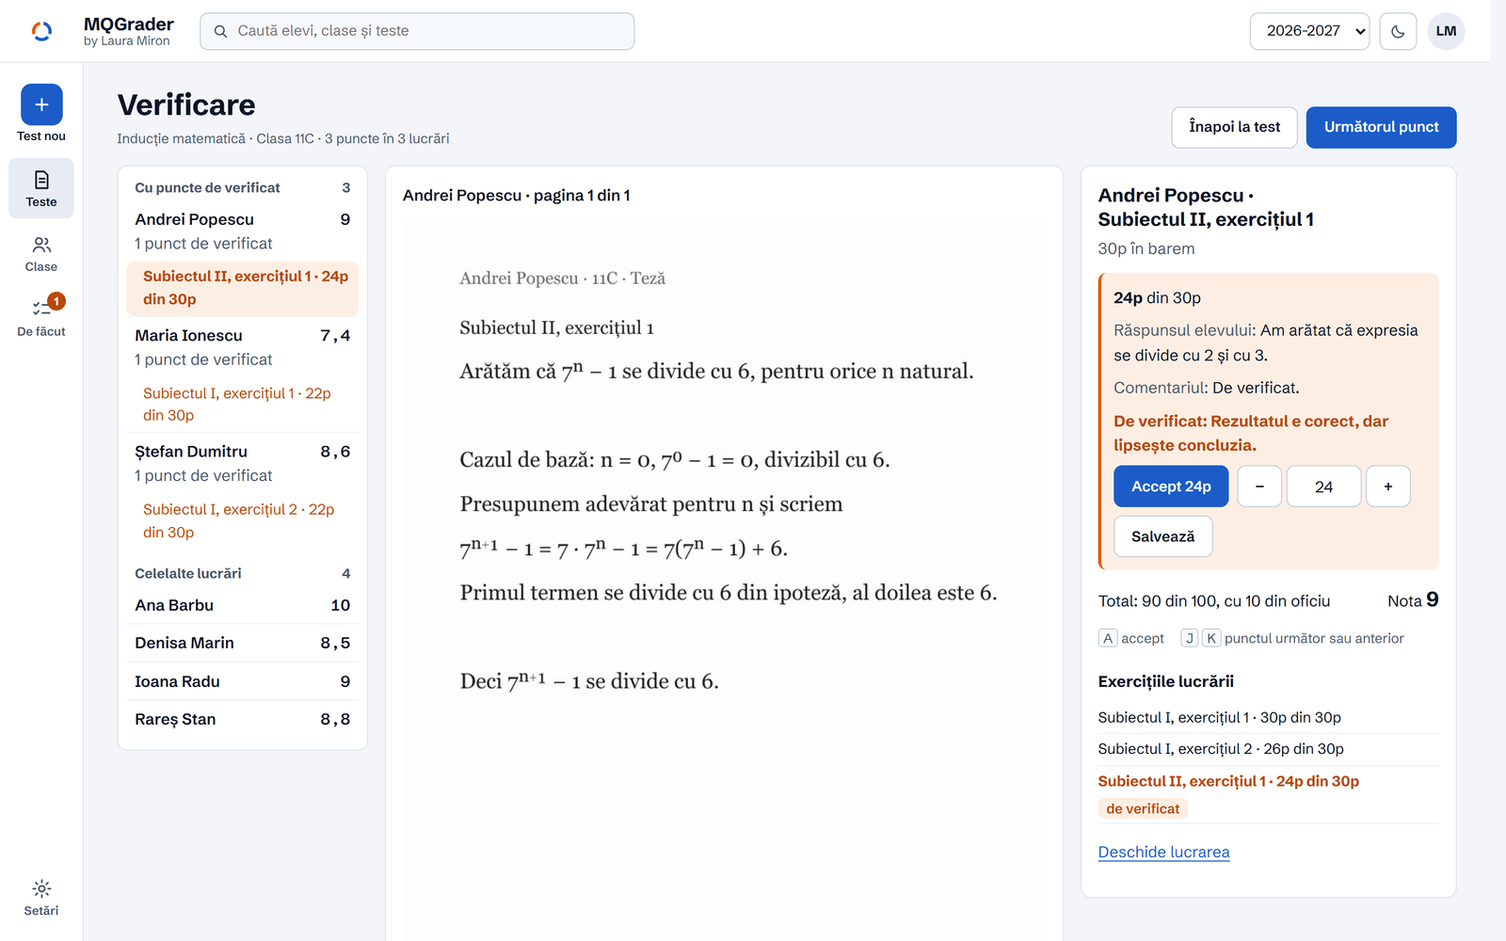
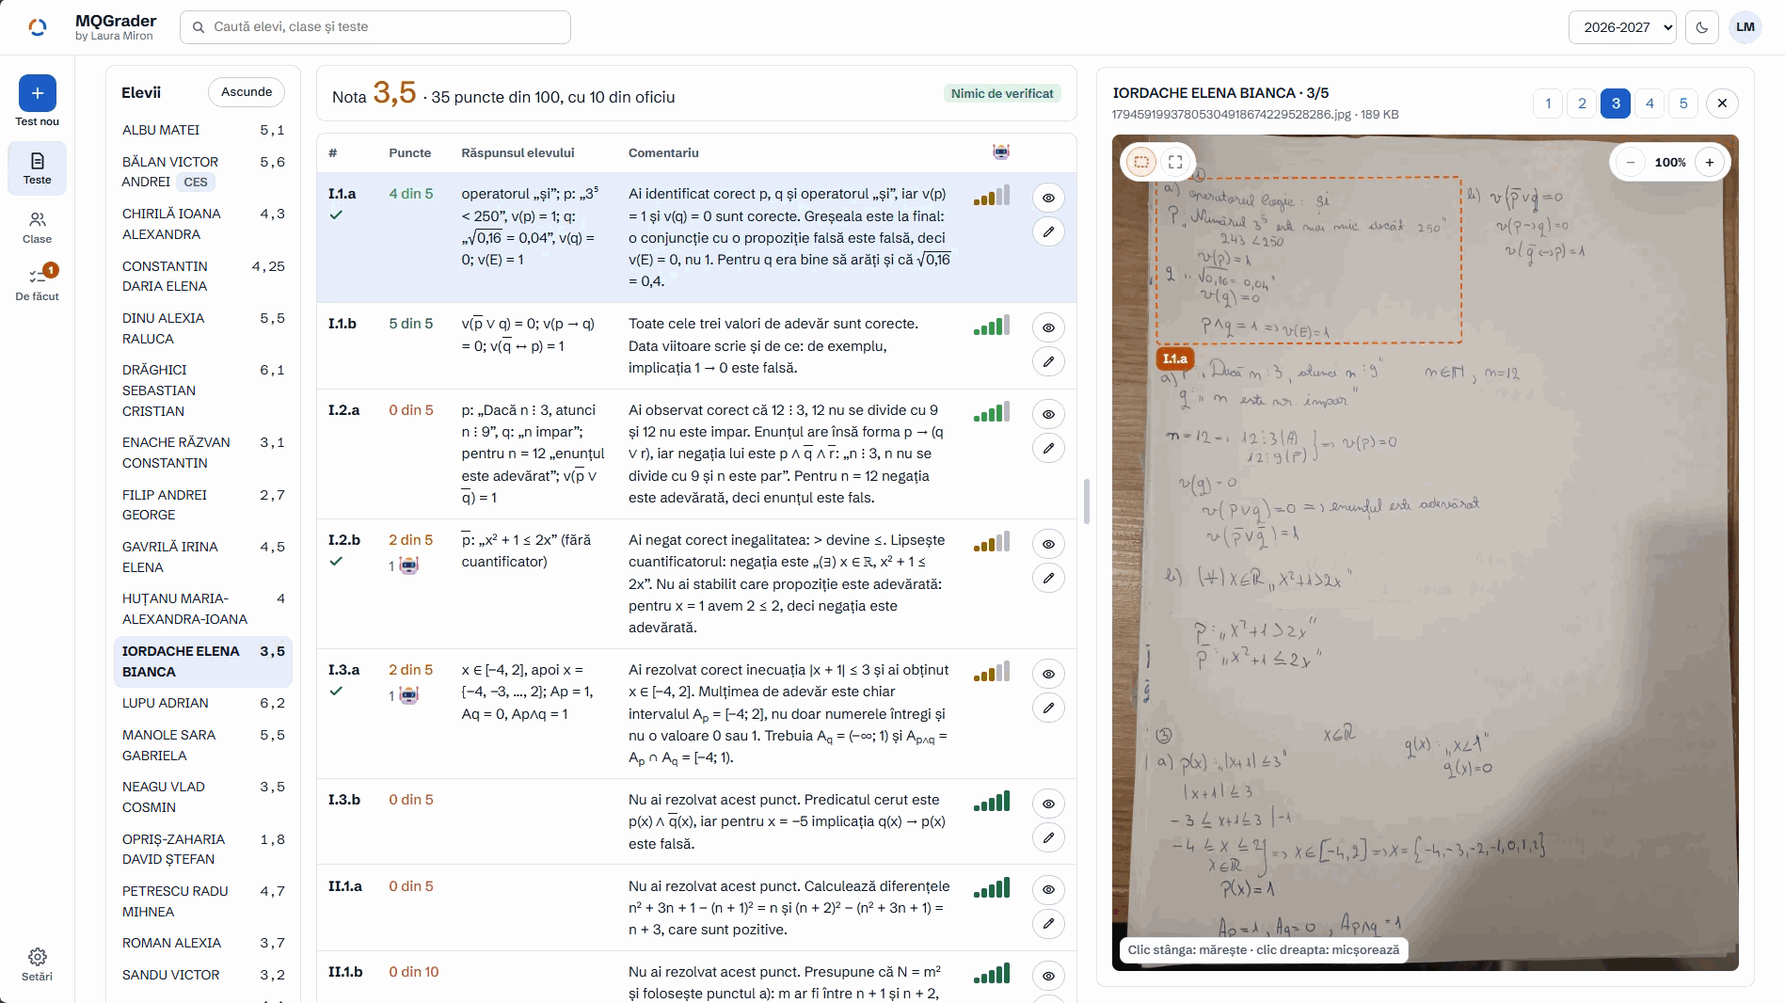
Show a real graded paper on the guide page, with the student names changed
The guide's picture is now a capture of a graded paper: the class list,
the points, answers and comments per exercise, and the page photo. Every
student name in the list and the photo title is a made-up name, and the
name written on the paper is erased.

diff --git a/guide/index.html b/guide/index.html
@@ -45,9 +45,9 @@
             "primaryImageOfPage": {
               "@type": "ImageObject",
               "url": "https://mqgrader.ro/app-verificare.png",
-              "width": 1600,
-              "height": 1000,
-              "caption": "Verificarea într-un test: punctele de verificat ale clasei, lucrarea și punctul care așteaptă decizia profesorului."
+              "width": 1897,
+              "height": 1066,
+              "caption": "O lucrare corectată în MQGrader: punctajul, răspunsul elevului și comentariul la fiecare exercițiu, lângă poza paginii."
             }
           },
           {
@@ -164,8 +164,8 @@
             </div>
 
             <figure class="shot">
-              <img src="/app-verificare.png" width="1600" height="1000" alt="Verificarea într-un test de matematică: în stânga, punctele de verificat ale clasei; la mijloc, pagina lucrării; în dreapta, exercițiul cu 24 de puncte din 30, motivul pentru care așteaptă și butoanele de acceptare." loading="lazy" decoding="async" />
-              <figcaption>Captură din aplicație, cu date de test: un punct care așteaptă decizia profesorului, cu punctajul lui din barem și cu motivul pentru care a fost pus deoparte.</figcaption>
+              <img src="/app-verificare.png" width="1897" height="1066" alt="O lucrare corectată într-un test de matematică: în stânga, elevii clasei cu notele lor; la mijloc, nota lucrării și, la fiecare exercițiu, punctajul, răspunsul elevului și comentariul; în dreapta, poza paginii, cu exercițiul I.1.a încadrat." loading="lazy" decoding="async" />
+              <figcaption>Captură din aplicație, cu o lucrare reală și cu numele elevilor schimbate: la fiecare exercițiu, punctajul, răspunsul elevului și comentariul, lângă poza paginii.</figcaption>
             </figure>
 
             <h2 id="habits">Trei obiceiuri care fac corectura mai ușoară</h2>

diff --git a/src/landing/pages.test.ts b/src/landing/pages.test.ts
@@ -333,11 +333,11 @@ describe('the pages that answer a search', () => {
     const figure = doc.querySelector('.prose .shot');
     const img = figure?.querySelector('img');
     expect(img?.getAttribute('src')).toBe('/app-verificare.png');
-    expect(img?.getAttribute('width')).toBe('1600');
-    expect(img?.getAttribute('height')).toBe('1000');
+    expect(img?.getAttribute('width')).toBe('1897');
+    expect(img?.getAttribute('height')).toBe('1066');
     expect((img?.getAttribute('alt') ?? '').length).toBeGreaterThan(60);
-    expect(img?.getAttribute('alt')).toContain('Verificarea într-un test de matematică');
-    expect(text(figure?.querySelector('figcaption') ?? null)).toContain('decizia profesorului');
+    expect(img?.getAttribute('alt')).toContain('O lucrare corectată într-un test de matematică');
+    expect(text(figure?.querySelector('figcaption') ?? null)).toContain('numele elevilor schimbate');
     // The page's main image is the one the reader sees, at its real size.
     const ld = JSON.parse(text(doc.querySelector('script[type="application/ld+json"]')));
     const nodes: { '@type': string; primaryImageOfPage?: { url: string; width: number; height: number; caption?: string } }[] =
@@ -345,8 +345,8 @@ describe('the pages that answer a search', () => {
     const page = nodes.find((n) => n['@type'] === 'WebPage')!;
     expect(page.primaryImageOfPage).toMatchObject({
       url: 'https://mqgrader.ro/app-verificare.png',
-      width: 1600,
-      height: 1000,
+      width: 1897,
+      height: 1066,
     });
     expect(page.primaryImageOfPage?.caption?.length).toBeGreaterThan(40);
   });

diff --git a/src/AGENTS.md b/src/AGENTS.md
@@ -17,7 +17,7 @@ The two browser apps. The root `AGENTS.md` holds the project-wide rules.
 - `admin/search/` is search (redesign spec §11.10). `SearchBox.tsx` is the box after the lockup in the top bar ("Caută elevi, clase și teste", an ARIA combobox): from two letters, the list under it shows at most five of each group, "Elevi" (the classes on the right), "Clase" (the students, "arhivată"), "Teste" (the class and the date), with the match in bold (`Highlight.tsx`, `matchRange` of `shared/search.ts`), and "Toate rezultatele pentru „stef”" last. The arrows move (`aria-activedescendant`), Enter opens the chosen line or, with none chosen, the results page; a chosen line empties the box. Esc closes the list first and marks it with `preventDefault()`, so a panel stays open. `useSearch.ts` asks `/api/admin/search` 200 ms after the typing stops, keyed by the year and the folded text, and keeps the last answer on screen meanwhile; the shell reads `['search']` again after every change. `pages/SearchPage.tsx` is the results page at `/search?q=stef&show=students`: "Rezultate pentru „stef”", how many in the school year, the chips "Toate", "Elevi", "Clase", "Teste" with their counts (an empty group's chip is disabled; an old link to it shows all), and one card per group: a student with the classes and "ultima notă" or "nicio notă încă", a class with its students, a test with its class, date and stage (`stagesOf`). On a phone the box gives way to a magnifier beside ☰ (`Layout.tsx`, the panel `search`): `SearchLayer.tsx` is the search over the whole screen, a dialog with ← "Închide căutarea" and the list always open; ←, Esc, a new page and a screen grown past a phone close it, the page, the top bar and the bar under it are `inert`, and the focus goes back to the magnifier. The class page's student search uses the same fold.
 - `EmptyState.tsx` is an empty place of the teacher app (redesign spec §11.9): an icon (`shell/icons.tsx`), a heading at the level of its place (`level`: an h3 under a panel's or a card's title, an h2 in a card with none, an h1 on a page with no other heading), one sentence, and at most one button, its one next step. It is used by "Clasele tale" with no class (its "Clasă nouă", and "Nu ai nicio clasă activă" when archived ones exist; the panel's own foot then shows only "Arhivate (n)"), "Ce ai de făcut" with nothing, `/classes` with no active class, a class with no students or no tests (`NoStudents` in `classPage/GradesTable.tsx`, on both tabs; an archived class gets the same headings and no button), În clasă while the test is open and no student has started an upload (`submissionId` null on every row, with no button: the students' link above it has "Arată codul QR pe tot ecranul"; that QR code on the whole screen, `QrOverlay` of `UploadLink.tsx`, belongs to the panel, so it stays open when the first paper arrives; closing it gives the focus back to its button), and Rezultate with nothing to publish (`NoResultsYet` in `ResultsAccess.tsx`, "Mergi la Corectare"; the students' links stay under it). A new teacher (no test in the year, and `testsEvaluated` 0) sees on the Teste page (after "Se încarcă…" while the tests load, not the other greeting) "Bun venit, …" and `testsPage/FirstSteps.tsx` ("Primii pași": a class, a test, the print) in place of the filters and the lists; the card goes once a test exists.
 - `admin/testPage/PapersProgress.tsx` is the papers bar above the test page's papers table only (the Teste page shows the stage bar instead): "Lucrări: 18 din 23 de elevi au trimis" while the uploads are open, "… au participat" after, one bar of the students in parts (`paperCounts.ts`: corectate, se corectează, așteaptă corectarea, eșuate, încarcă acum, încă nu au trimis, nu au participat hollow with a grey outline: the brand has no gradient), a legend naming each part that has a student, "✓ Corectat complet" when every paper that took part is graded, and apart the points to check with "Verifică". A held-back paper (not chosen, past the demo limit) is `uploading` with files: once the uploads close it waits, it did take part (`heldBack`, also used by the papers table and the paper page's head, "Elevii" and `waitingText`; `heldBackHint` says why, and tells a demo account with no paper left that reopening will not send it). "✓ Corectat complet" waits while a student of a reopened test is sending. A sent CES paper waits too while the CES barem is not active, though the test is in evaluation (`CesBar`). The bar is `aria-hidden`: the legend says it in words. `EvaluationControls` shows "Marchează ca terminat" in place of the start button when a paper is graded and none waits.
-- `landing/`: the landing page (`index.html`) in the look of the redesign, with its own tokens (`landing.css`) and one script (`landing.ts`): the theme button, the header's menu and Quick Try. The four pages that answer a search (`guide/index.html`, `marking-scheme/index.html`, `about/index.html`, `pricing/index.html`) share `landing.css` and `pages.css`, and load `pages.ts` (`themeButton.ts` and `siteMenu.ts`, also used by `landing.ts`), so the Quick Try code stays on the landing page. The five pages' header keeps the same four pages one tap away on a phone: below 900px the links wait in `.nav-links` and the ☰ button (`siteMenu.ts`) opens them under the header, closed by Esc (which gives the focus back), a click elsewhere, a link, or a wider screen; the content pages mark their own link with `aria-current="page"`. `pages.test.ts` checks each one's canonical, its one `h1`, its own share card (`public/og-guide.png` and the three beside it), the trail (`nav.crumbs`) against its `BreadcrumbList`, the byline and `dateModified` against the sitemap's `lastmod`, its header menu and footer links, its closing `#read-also` list, its JSON-LD and the words Laura Miron's own pages repeat. The two long pages (`/guide/`, `/marking-scheme/`) open with a `nav.toc` whose links go to `id`s on their `h2`s, and `/guide/` shows the review screen (`public/app-verificare.png`, 1600×1000) in a `.prose .shot` figure, the picture its `primaryImageOfPage` names. The landing page links the four pages from its own text: one link in the account section and the `#more` cards at the end. The five public pages share their footer: each has `<!--#include site-foot -->`, which Vite replaces with the part in `partials.ts` (the `publicPagePartials` plugin in `vite.config.ts`); a test that reads a page's raw HTML runs `expandPartials` on it first. `landing/quickTry/` is the Quick Try button (under "Intră în cont"), its form in a `<dialog>` and the card of the visitor's try, with no React: `ui.ts` works on the page's own elements (the file rows: a hidden real input in each `[data-try-pick]` label, filled by `showPick`; the pages row is a `div` whose label holds the input, beside the real button "Cu telefonul" (shown from 768px) and its "Schimbă"), `send.ts` checks and sends the form and names the try (`tryTitle`; with her barem the grading starts at once; with the robot's she starts it on the try's page; with the phone (`byPhone`) it sends no page and does not start), `phone.ts` is the QR window that the dialog shows after a send with the phone (the form block hides; the code of the phone page, the pages as they arrive, "Alege fișiere de pe calculator", "Pornește corectarea" only with her barem, else "Deschide încercarea"; Esc, "Închide" and the start close it and the card follows the try), `qr.ts` draws its code as SVG elements (`uqr`, loaded only then; when it fails the address shows as text), `watch.ts` reads the pages while it shows (every 3 s, not in a hidden tab, stopping after 15 minutes with no new page), `status.ts` says where the try stands (the card's line, tag and tone) and whether the button shows (one try per device per Bucharest day in `localStorage`, `storage.ts`, unless it failed; an administrator always), and `turnstile.ts` loads Cloudflare's check. The page's security policy allows no inline script or style, and only Turnstile's script and frame from elsewhere; `landing.test.ts` checks that, and Laura Miron's texts word for word. "Cere un cont de profesor" opens `/teacher/#new-account`, which `LoginPage` shows as "Cont nou de profesor". The login page repeats the heading, the line and the six stages: a change to them in `index.html` goes into `admin/wayIn/WayIn.tsx` too.
+- `landing/`: the landing page (`index.html`) in the look of the redesign, with its own tokens (`landing.css`) and one script (`landing.ts`): the theme button, the header's menu and Quick Try. The four pages that answer a search (`guide/index.html`, `marking-scheme/index.html`, `about/index.html`, `pricing/index.html`) share `landing.css` and `pages.css`, and load `pages.ts` (`themeButton.ts` and `siteMenu.ts`, also used by `landing.ts`), so the Quick Try code stays on the landing page. The five pages' header keeps the same four pages one tap away on a phone: below 900px the links wait in `.nav-links` and the ☰ button (`siteMenu.ts`) opens them under the header, closed by Esc (which gives the focus back), a click elsewhere, a link, or a wider screen; the content pages mark their own link with `aria-current="page"`. `pages.test.ts` checks each one's canonical, its one `h1`, its own share card (`public/og-guide.png` and the three beside it), the trail (`nav.crumbs`) against its `BreadcrumbList`, the byline and `dateModified` against the sitemap's `lastmod`, its header menu and footer links, its closing `#read-also` list, its JSON-LD and the words Laura Miron's own pages repeat. The two long pages (`/guide/`, `/marking-scheme/`) open with a `nav.toc` whose links go to `id`s on their `h2`s, and `/guide/` shows a graded paper (`public/app-verificare.png`, 1897×1066, a real paper with the student names changed) in a `.prose .shot` figure, the picture its `primaryImageOfPage` names. The landing page links the four pages from its own text: one link in the account section and the `#more` cards at the end. The five public pages share their footer: each has `<!--#include site-foot -->`, which Vite replaces with the part in `partials.ts` (the `publicPagePartials` plugin in `vite.config.ts`); a test that reads a page's raw HTML runs `expandPartials` on it first. `landing/quickTry/` is the Quick Try button (under "Intră în cont"), its form in a `<dialog>` and the card of the visitor's try, with no React: `ui.ts` works on the page's own elements (the file rows: a hidden real input in each `[data-try-pick]` label, filled by `showPick`; the pages row is a `div` whose label holds the input, beside the real button "Cu telefonul" (shown from 768px) and its "Schimbă"), `send.ts` checks and sends the form and names the try (`tryTitle`; with her barem the grading starts at once; with the robot's she starts it on the try's page; with the phone (`byPhone`) it sends no page and does not start), `phone.ts` is the QR window that the dialog shows after a send with the phone (the form block hides; the code of the phone page, the pages as they arrive, "Alege fișiere de pe calculator", "Pornește corectarea" only with her barem, else "Deschide încercarea"; Esc, "Închide" and the start close it and the card follows the try), `qr.ts` draws its code as SVG elements (`uqr`, loaded only then; when it fails the address shows as text), `watch.ts` reads the pages while it shows (every 3 s, not in a hidden tab, stopping after 15 minutes with no new page), `status.ts` says where the try stands (the card's line, tag and tone) and whether the button shows (one try per device per Bucharest day in `localStorage`, `storage.ts`, unless it failed; an administrator always), and `turnstile.ts` loads Cloudflare's check. The page's security policy allows no inline script or style, and only Turnstile's script and frame from elsewhere; `landing.test.ts` checks that, and Laura Miron's texts word for word. "Cere un cont de profesor" opens `/teacher/#new-account`, which `LoginPage` shows as "Cont nou de profesor". The login page repeats the heading, the line and the six stages: a change to them in `index.html` goes into `admin/wayIn/WayIn.tsx` too.
 - Light is the default theme on every page: `public/theme.js` and `currentTheme()` follow only a saved choice, never the system setting.
 - `upload/`: the student app. A kept result link is a ticket (`ResultTicket.tsx`, spec `docs/superpowers/specs/2026-11-17-student-result-access-design.md`): the test, the student, the QR code of the result link (dark on white in both themes) and its short code (`formatResultCode`), because students keep it as a screenshot; how to see the result later (`TICKET_HOW`) is only on the saved picture, never on the page, where it would read like something to do now; then "Salvează biletul" (`SaveTicket.tsx`: the same ticket as a 1080×1350 PNG drawn on a canvas, `ticketImage.ts`; on an iPhone or iPad it is made as soon as the ticket shows, one ticket at a time, so the tap opens the share sheet with no wait (it opens only inside the tap); elsewhere it is made on the tap and downloads; the hidden QR canvas is about `QR_SIZE` real pixels and every canvas is freed after use, because phones limit canvas memory), "Trimite-mi linkul" (`shareLink.ts`: the share sheet with the code, else copy, else the link as text) and "Arată linkul întreg" (the whole address as text that wraps, never in a field that cuts it off). The phone keeps each link's code beside it; a link kept before codes existed shows its ticket without the code row until its result page opens (`rememberResultCode`). The kept result links are stored per link token, and a test has two links (the default one, and the one for many uploads), so the phone also remembers which test each link names (`qe.link.<token>` holds `LinkInfo.test.key`; `resultLinks.ts`). Once the uploads closed, the page (`ClosedScreen` in `UploadApp.tsx`) shows the links kept through either link of the test (`loadTestResultLinks`; a link kept before the phone remembered tests is asked for once, `learnOtherLinks`), and has three states: results not published, "Încărcarea s-a închis." in the grey `.notice` (not an error), a line that the results are not published yet (for an archived test or class, `LinkInfo.test.archived`, that its results are closed: ask the teacher; this also when the teacher published a few results of the archived test), and every kept ticket (to save it again), with no code field (a code would open nothing yet); published with the kept link of one paper, the page first asks whether that result is published (`ownResult`, `GET /api/u/result/<token>/status`: one small read, not the result, which the result page then reads): open, it opens at once in place of the page (`openResult`, `location.replace`, so Back does not open it again; "Se deschide rezultatul…" meanwhile); not published yet itself (the teacher published only other results), the state before the publish with "Rezultatul tău nu a fost publicat încă."; unknown to the server (a reset paper), the link is forgotten and the page asks for the code; published with none or with the links of several papers (a shared phone), "Rezultatele au fost publicate." and "Scrie codul tău", with no alert and no ticket. The field (`CodeEntry.tsx`, `POST /api/u/<token>/code`) says where to look for a lost code. A good code opens the result page (`goTo`) and keeps nothing on the phone: the phone keeps only the links it sent, so a code typed on a borrowed phone never opens there by itself for its owner, and never locks its default link (`singleUploadLocked`). Links an older page kept for a typed code (`byCode`) are ignored (`readSaved`). A result never opens from the test's link by picking a name. `api.ts` (the only code that calls `/api/u`, with XMLHttpRequest for upload progress; `putFile` is that upload, also used by a try's phone page), `PagesUploader.tsx` (the pages of a paper: tips, "Fă o poză", "Alege fișiere", the list sent one page at a time, and the last button; a page the server refused with a 4xx has no "Încearcă din nou"; `UploadScreen.tsx` gives it the student's name and "Am trimis tot", and a try's phone page its own heading and "Am terminat"), `session.ts` (the phone's secret in localStorage), `shrink.ts` (photos made smaller on the phone). `StudentResult.tsx` takes `fileUrl`, so a Quick Try's page shows the same student result. `StudentHeader.tsx` is the header of both student pages (the site's lockup linking to mqgrader.ro, "Despre", the theme button). `ResultActions.tsx`: "Trimite linkul" (share sheet, else copy, else the link as text) and "Descarcă PDF" (the teacher's student PDF, from `studentPdfInputFromResult`; pdfmake stays a lazy import).
 - `try/`: a Quick Try's page (`/try/<token>`, spec `docs/superpowers/specs/2026-11-09-quick-try-design.md` §3.3). It reuses the teacher app through `createApiClient({ base: '/api/try/<token>' })`: the calls and the file links (`AdminApi.base`) go to the try's link, and only the calls of the server's allow-list are used (`TRY_ADMIN_CALLS` in `test/fakeTryApi.tsx`, whose `tryAdminApi()` makes a page test fail on any other call). `api.ts` is the try's own client (`info`, the student's pages, `start`, the student `result`). `phase.ts` says where the try stands from its test (`prepare`, `grading`, `problem`, `failed` as the server's give-back, `graded`), reads it again every 10 s while the robot works, and gives the graded paper's grade (`scoreOf`, also used by the landing card). `TryHead.tsx` is the head of every state: the name with its rename, the times, the subject ("Materia: …", read only: a try has no "Schimbă"), the test and barem to download, "Distribuie". `Prepare.tsx` holds the test, the barem (her own, or the robot's to download, then "Pornește corectarea" with its `filesVersion`), the student's pages (a preview, "Pagina N" and the size, as on the student's page; never the file name) and the file changes left; `Working.tsx` the grading, the barem's problem ("Folosește oricum" or another barem) and the failure (no retry); `Graded.tsx` the grade and the points to check, then the two views under tabs that stay at the top (`try-tabs`, the page's own; `try.css` keeps the scrollbar's room so views of any height start at the same place): "Verificare" (the points to check, each opening the teacher app's own paper page (`TryPaperPage`) at `/tests/<code>/review?paper=&item=` inside the try's router, with only the points to check by default (`view=all` shows all), and without the students, the path, the head's actions, the result link and "Reîncearcă", whose routes the try's allow-list does not have; its links to `/tests/<code>` come back to the try, `#results` opens the student's result, and the app's address of the paper, `/tests/<code>/papers/<id>`, opens the page with every exercise; under the points, "Toate exercițiile" opens that view too, also when no point is left; there is no teacher's result of its own: the paper page holds it) and "Rezultatul elevului" (`StudentResult`, checked with `expectNoGradingWords()`). `ui/FilesBeside.tsx` is the paper's files strip that opens them left of the result, on the try's student result and on the student's result; `try.css` gives the try's top bar the shell's `--bar` and `--top`, and `--top` on `.try-panel` sticks the shown files under the tabs. "Distribuie" (`Share.tsx`) shares or copies the try's link. The page never shows the test's upload link; its only QR code is the one of its own phone page (`PhoneCode.tsx`, under "Fă poze cu telefonul" beside "Adaugă pagini"; on a phone (`PHONE_MEDIA`) that button is the link "Fă poze" to the phone page; while it shows, `usePagesWatch.ts` reads the pages every 3 s and stops after 15 minutes with no new page, then "Verifică din nou"). `PhonePage.tsx` is that phone page (`/try/<token>/phone`): "Lucrarea elevului", the try's name and the shared `PagesUploader`, "Am terminat" showing "Paginile au ajuns" with no write on the server, no link to a result or to the try (but "Deschide încercarea" on its last screen and read-only view when opened with `?here=1`, on the phone that made the try; never while the photos are taken), read only once the paper went to grading, and checked with `expectNoGradingWords()`.
